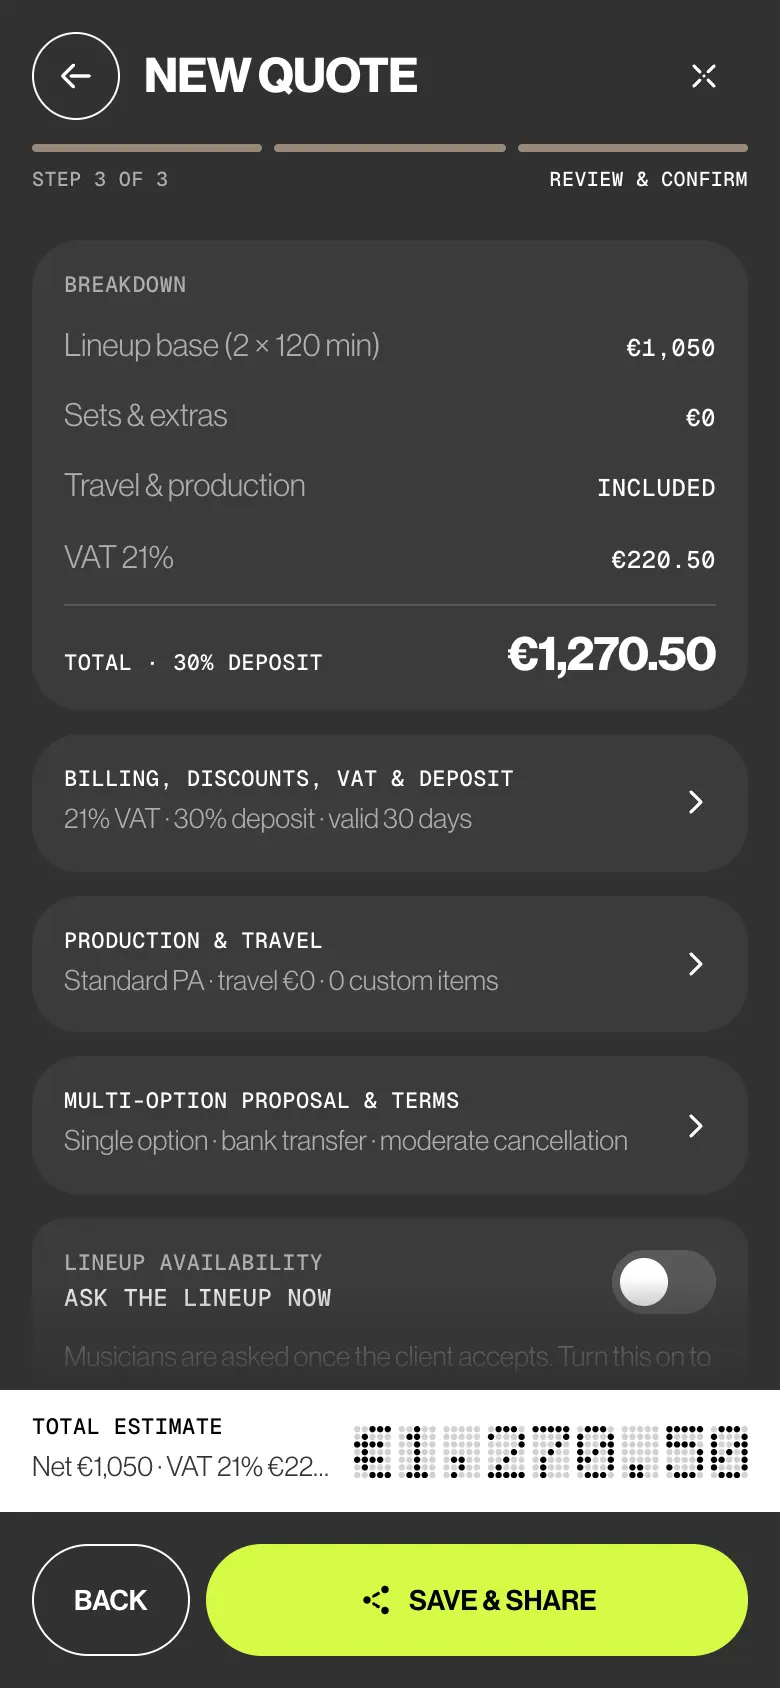
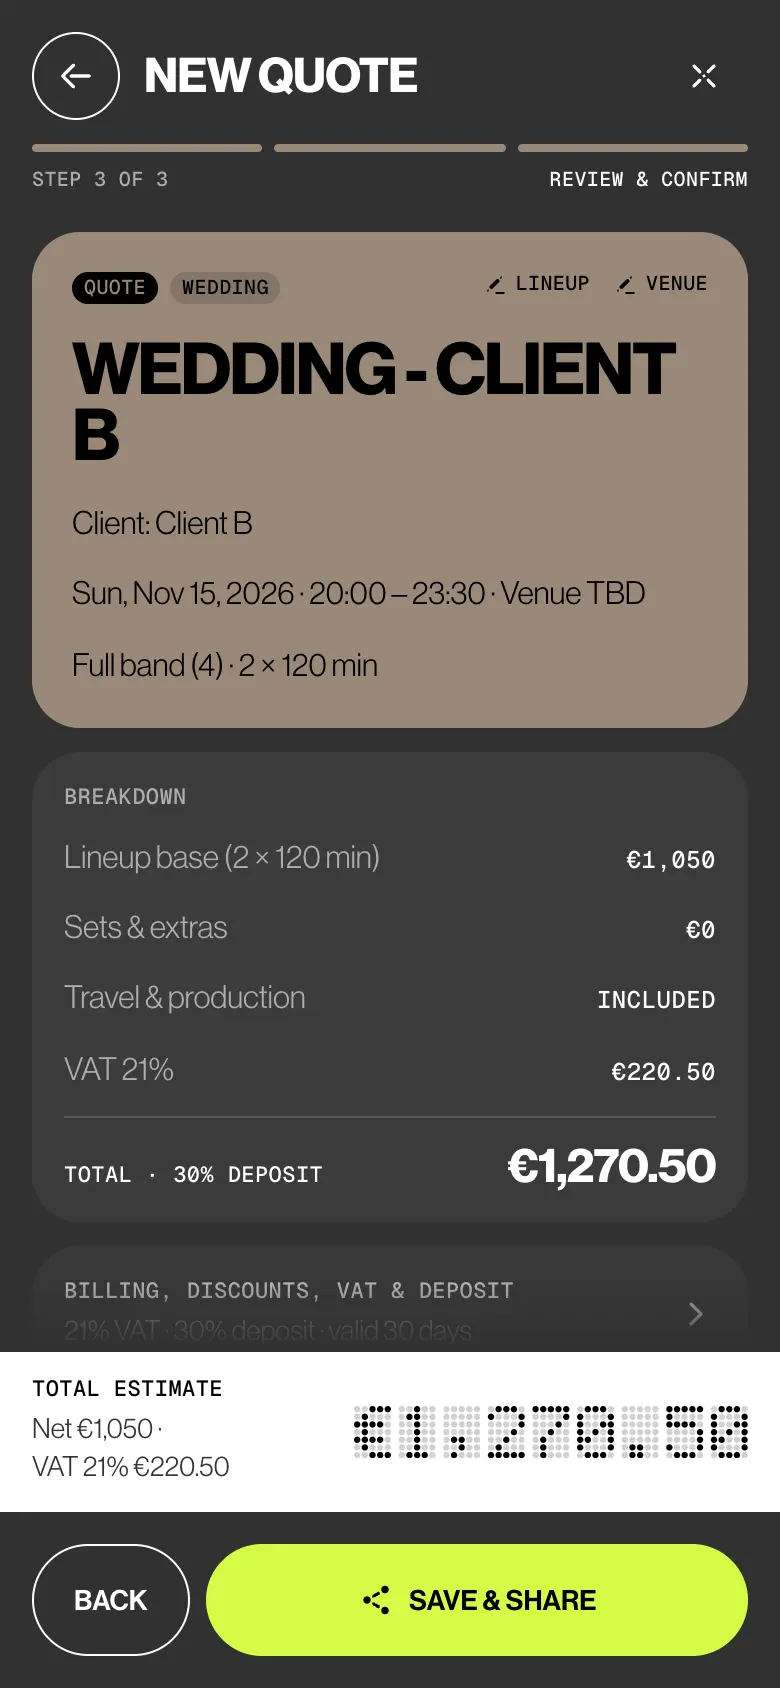
Gig wizard Laptop pose preview; quote total subtitle wraps
- New gig in Laptop pose: the Display (upper half) showed only the header.
  It now shows the gig as it will be saved (the Book layout's live preview,
  compact so it fits the half) on every step, like the quote wizard's desk.
- Quote wizard "Total estimate" bar: the subtitle wraps to two lines,
  breaking between its parts, instead of cutting the VAT amount off.
- Academy: Laptop capture of the gig wizard, phone capture of the quote
  review with the new bar.

diff --git a/src/app/components/duo/previews/LiveGigPreview.tsx b/src/app/components/duo/previews/LiveGigPreview.tsx
@@ -31,6 +31,8 @@ export interface LiveGigPreviewProps {
   /** Event colour (CSS colour / var) and its foreground. */
   accent: string;
   accentFg: string;
+  /** Laptop pose Display: no label, tighter card, one-line rows, so it fits the upper half. */
+  compact?: boolean;
 }
 
 export const LiveGigPreview: React.FC<LiveGigPreviewProps> = ({
@@ -47,6 +49,7 @@ export const LiveGigPreview: React.FC<LiveGigPreviewProps> = ({
   fee,
   accent,
   accentFg,
+  compact = false,
 }) => {
   const t = useT();
   // `settingLabel` is the raw setting value; translate it for display only.
@@ -54,10 +57,10 @@ export const LiveGigPreview: React.FC<LiveGigPreviewProps> = ({
     settingLabel === 'indoor' ? t('indoor') : settingLabel === 'outdoor' ? t('outdoor') : settingLabel;
   const place = [venue?.trim(), city?.trim()].filter(Boolean).join(', ');
   return (
-    <div className="flex flex-col gap-3 px-4 pt-4 pb-6" aria-live="polite">
-      <p className="bw-label-sm text-muted-foreground">{t('Live preview')}</p>
+    <div className={compact ? 'flex flex-col px-4 pb-3' : 'flex flex-col gap-3 px-4 pt-4 pb-6'} aria-live="polite">
+      {!compact && <p className="bw-label-sm text-muted-foreground">{t('Live preview')}</p>}
       <section
-        className="rounded-[24px] p-5 flex flex-col gap-3"
+        className={compact ? 'rounded-[20px] p-4 flex flex-col gap-1.5' : 'rounded-[24px] p-5 flex flex-col gap-3'}
         style={{ backgroundColor: accent, color: accentFg }}
         aria-label={t('{kind} preview', { kind: kindLabel })}
       >
@@ -66,7 +69,7 @@ export const LiveGigPreview: React.FC<LiveGigPreviewProps> = ({
           {typeLabel && <span className="bw-label-xs">{typeLabel}</span>}
           {setting && <span className="bw-label-xs opacity-70">{setting}</span>}
         </div>
-        <h2 className="bw-display-lg [overflow-wrap:anywhere]">{title}</h2>
+        <h2 className={compact ? 'bw-h1 line-clamp-2 [overflow-wrap:anywhere]' : 'bw-display-lg [overflow-wrap:anywhere]'}>{title}</h2>
 
         <div className="flex items-start gap-2">
           <Calendar className="w-4 h-4 shrink-0 mt-[3px]" />
@@ -77,11 +80,11 @@ export const LiveGigPreview: React.FC<LiveGigPreviewProps> = ({
         </div>
         <div className="flex items-start gap-2 min-w-0">
           <MapPin className="w-4 h-4 shrink-0 mt-[3px]" />
-          <span className="bw-body-md [overflow-wrap:anywhere]">{place || t('Venue TBD')}</span>
+          <span className={compact ? 'bw-body-md truncate' : 'bw-body-md [overflow-wrap:anywhere]'}>{place || t('Venue TBD')}</span>
         </div>
         <div className="flex items-start gap-2 min-w-0">
           <Users className="w-4 h-4 shrink-0 mt-[3px]" />
-          <span className="bw-body-md [overflow-wrap:anywhere]">
+          <span className={compact ? 'bw-body-md truncate' : 'bw-body-md [overflow-wrap:anywhere]'}>
             {lineupCount === 1 ? t('{count} musician', { count: lineupCount }) : t('{count} musicians', { count: lineupCount })}
             {lineupNames.length > 0 && <span className="opacity-70"> · {lineupNames.join(', ')}</span>}
           </span>
@@ -89,7 +92,7 @@ export const LiveGigPreview: React.FC<LiveGigPreviewProps> = ({
 
         {fee && (
           <div
-            className="flex items-baseline justify-between gap-3 pt-2"
+            className={compact ? 'flex items-baseline justify-between gap-3 pt-1.5' : 'flex items-baseline justify-between gap-3 pt-2'}
             style={{ borderTop: '1px solid color-mix(in srgb, currentColor 20%, transparent)' }}
           >
             <span className="bw-label-sm">{t('Fee')}</span>

diff --git a/src/app/components/dashboard/CreateEventModal.tsx b/src/app/components/dashboard/CreateEventModal.tsx
@@ -60,7 +60,7 @@ import { addressWithoutCity } from '@/lib/eventAddress';
 import { useSystemBack } from '@/lib/backStack';
 import { haptic } from '@/lib/haptics';
 import { LeaveWizardSheet } from '@/app/components/bw/LeaveWizardSheet';
-import { useLeadingCompanion } from '@/app/components/duo';
+import { useLaptopPose, useLeadingCompanion } from '@/app/components/duo';
 import { LiveGigPreview } from '@/app/components/duo/previews/LiveGigPreview';
 import { useT, intlLocale, getLocale } from '@/lib/i18n';
 import { ComposerCard, ComposerCheck, ComposerPreview, ComposerShell, Segmented, useComposerLayout } from '@/app/components/composer/Composer';
@@ -1138,7 +1138,10 @@ export const CreateEventModal: React.FC<CreateEventModalProps> = ({
   // shows the gig as it will be saved, filling in as the user types. Steps
   // 2–3 leave the leading page alone (the calendar shows underneath).
   // Called before the rehearsal passthrough so the hook order never changes.
-  useLeadingCompanion(
+  // In Laptop pose the same preview fills the Display under the header on
+  // every step (the fields are on the Deck), like the quote wizard's desk.
+  const laptopPose = useLaptopPose();
+  const gigPreview = (
     <LiveGigPreview
       kindLabel={modalCategory === 'quote' ? t('Quote') : t('Gig')}
       typeLabel={eventType ? eventTypeLabels[eventType]?.label ?? eventType : null}
@@ -1155,9 +1158,9 @@ export const CreateEventModal: React.FC<CreateEventModalProps> = ({
       fee={isAdmin && grandTotalFee > 0 ? `${currencySymbol}${grandTotalFee.toLocaleString(intlLocale('en-US'))}` : null}
       accent={activeAccentColor}
       accentFg={activeAccentFg}
-    />,
-    !isEditing && step === 0 && eventType !== 'rehearsal' && !composerOn
+    />
   );
+  useLeadingCompanion(gigPreview, !isEditing && step === 0 && eventType !== 'rehearsal' && !composerOn);
 
   // Members never see quotes (the effect above closes the wizard). This sits
   // after every hook above so the hook order never changes with the role.
@@ -2931,7 +2934,10 @@ export const CreateEventModal: React.FC<CreateEventModalProps> = ({
         className="bw-pane-detail bw-fold-form fixed inset-0 z-[100] bg-background text-foreground flex flex-col h-full overflow-hidden"
       >
         {/* Top bar (Figma Top Bar Style=Canvas) + wizard steps */}
-        <div className="shrink-0 bg-background" style={headerPadTop}>
+        <div
+          className={cn('shrink-0 bg-background', laptopPose && 'flex flex-col')}
+          style={laptopPose ? { ...headerPadTop, maxHeight: 'var(--bw-display-h)' } : headerPadTop}
+        >
           <div className="h-14 px-4 flex items-center gap-3 bw-status-clear">
             <NavBackButton
               pane
@@ -2961,6 +2967,12 @@ export const CreateEventModal: React.FC<CreateEventModalProps> = ({
               activeColor="var(--wizard-accent)"
             />
           </div>
+          {/* Laptop pose: the gig as it will be saved fills the rest of the Display. */}
+          {laptopPose && (
+            <div className="flex-1 min-h-0 overflow-y-auto overscroll-contain">
+              {React.cloneElement(gigPreview, { compact: true })}
+            </div>
+          )}
         </div>
 
         {/* Scrollable body */}

diff --git a/src/app/components/quotes/QuoteCreationWizard.tsx b/src/app/components/quotes/QuoteCreationWizard.tsx
@@ -2924,7 +2924,15 @@ export const QuoteCreationWizard: React.FC<QuoteCreationWizardProps> = ({
       <div className="max-w-xl mx-auto w-full flex items-center justify-between gap-3">
         <div className="flex flex-col gap-1 min-w-0">
           <span className="bw-label-sm">{t('Total estimate')}</span>
-          <span className="bw-body-sm truncate opacity-80">{estimateSubtitle}</span>
+          {/* Up to two lines, breaking between the parts ("VAT 21% €220.50" stays whole). */}
+          <span className="bw-body-sm line-clamp-2 opacity-80">
+            {estimateSubtitle.split(' · ').map((part, i) => (
+              <React.Fragment key={i}>
+                {i > 0 && ' · '}
+                <span className="whitespace-nowrap">{part}</span>
+              </React.Fragment>
+            ))}
+          </span>
         </div>
         <div
           className="shrink-0 max-w-[55%]"

diff --git a/academy/content/shotFiles.ts b/academy/content/shotFiles.ts
@@ -11,7 +11,7 @@ export const SHOT_FILES: Record<string, ShotDevice[]> = {
   'basics-welcome': ['phone', 'tablet', 'web'],
   'calendar-month': ['phone', 'tablet', 'web', 'duoClosed', 'duoBook', 'duoLaptop'],
   'contracts-list': ['phone', 'tablet', 'web', 'duoClosed', 'duoBook'],
-  'gig-wizard-step1': ['phone', 'tablet', 'web', 'duoClosed', 'duoBook'],
+  'gig-wizard-step1': ['phone', 'tablet', 'web', 'duoClosed', 'duoBook', 'duoLaptop'],
   'gig-workspace-admin': ['phone', 'tablet', 'web', 'duoClosed', 'duoBook'],
   'gig-workspace-member': ['phone', 'tablet', 'web', 'duoClosed', 'duoBook'],
   'ipad-gig-composer': ['tablet', 'web', 'duoBook'],
